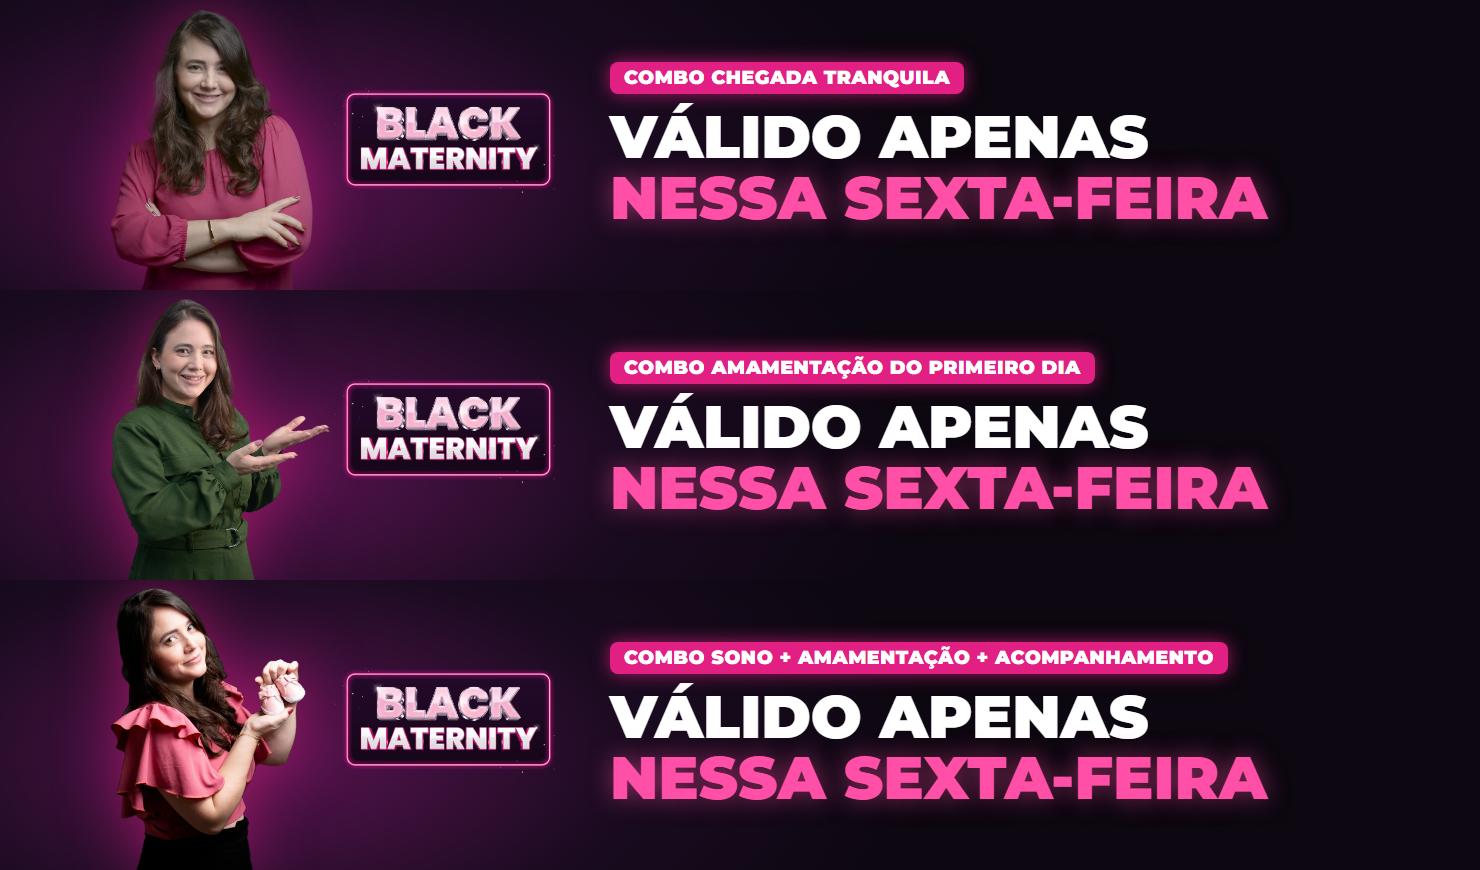
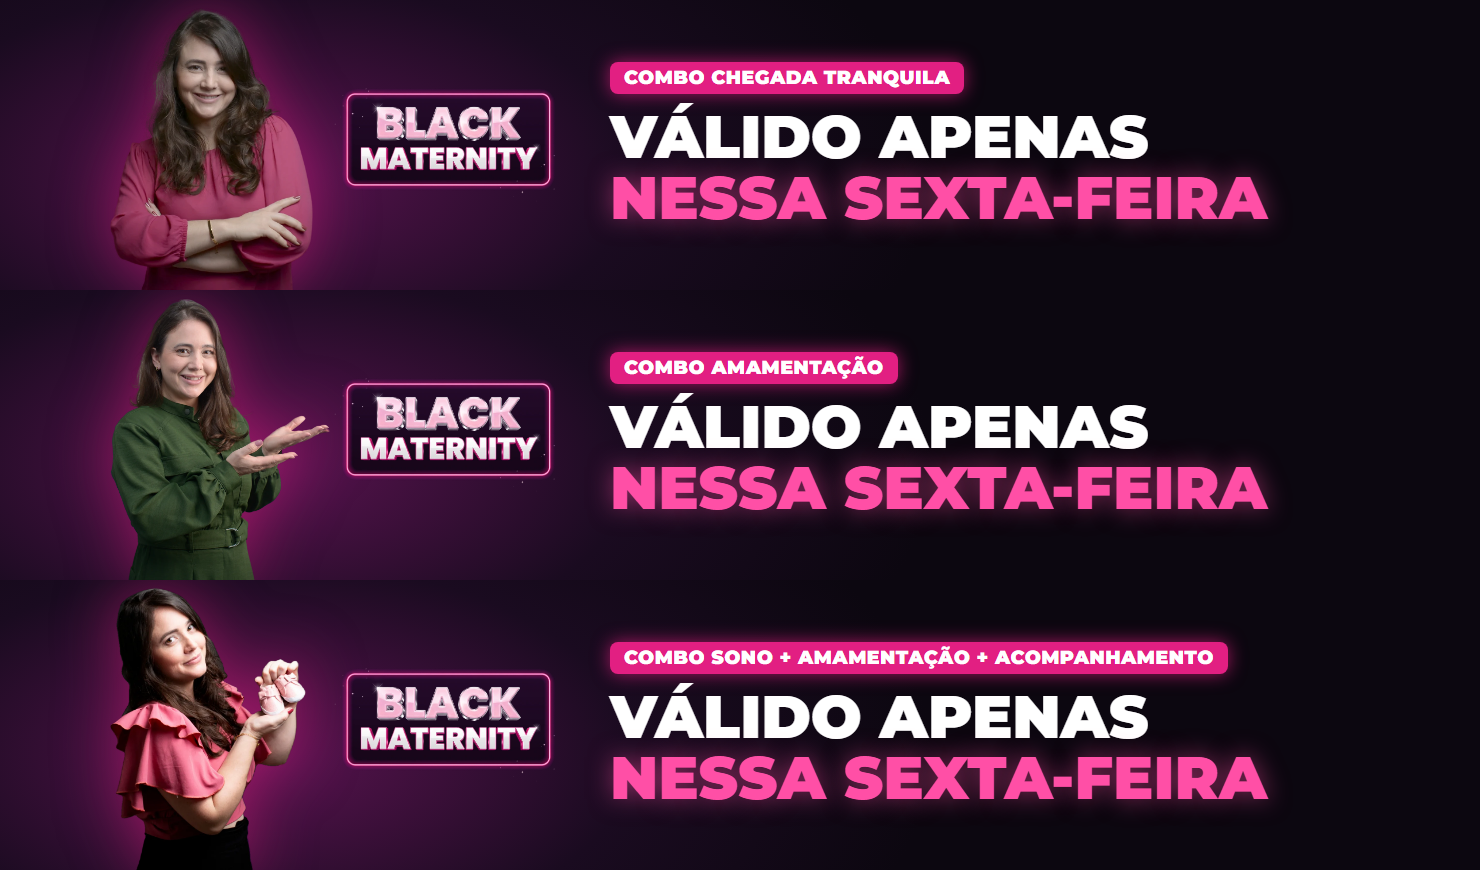
previa downsell: ajustes do Bruno (Amamentacao, textos)

Changed region(s): [[0.5905, 0.3724, 0.7459, 0.4655]]

diff --git a/2026-11-13-downsell-black/index.html b/2026-11-13-downsell-black/index.html
@@ -15,15 +15,15 @@ h1{font-size:1.7rem;color:#fff}h2{font-size:1.15rem;color:var(--rosa);margin:36p
 <h1>Downsell da Black Maternity</h1>
 <p class="sub">Sexta, 13/11 · grupo Black Maternity · links das 12h às 15h</p>
 <h2>As artes dos combos</h2>
-<div class="grid"><img src="img/combo-chegada.jpg" alt="Combo Chegada Tranquila"><img src="img/combo-amamentacao.jpg" alt="Combo Amamentação do Primeiro Dia"><img src="img/combo-sono-amamentacao.jpg" alt="Combo Sono + Amamentação"></div>
+<div class="grid"><img src="img/combo-chegada.jpg" alt="Combo Chegada Tranquila"><img src="img/combo-amamentacao.jpg" alt="Combo Amamentação"><img src="img/combo-sono-amamentacao.jpg" alt="Combo Sono + Amamentação"></div>
 <h2>Os links</h2>
 <div class="links">
 <div><b>Chegada Tranquila · R$ 97</b><a href="https://manualdorecemnascido.com.br/ChegadaTranquila" target="_blank">manualdorecemnascido.com.br/ChegadaTranquila</a></div>
-<div><b>Amamentação do Primeiro Dia · R$ 127</b><a href="https://manualdorecemnascido.com.br/AmamentacaoPrimeiroDia" target="_blank">manualdorecemnascido.com.br/AmamentacaoPrimeiroDia</a></div>
+<div><b>Amamentação · R$ 127</b><a href="https://manualdorecemnascido.com.br/ComboAmamentacao" target="_blank">manualdorecemnascido.com.br/ComboAmamentacao</a></div>
 <div><b>Sono + Amamentação + Acompanhamento · R$ 194</b><a href="https://manualdorecemnascido.com.br/ComboSonoAmamentacaoBlack" target="_blank">manualdorecemnascido.com.br/ComboSonoAmamentacaoBlack</a></div>
 </div>
 <h2>Como vai aparecer no grupo</h2>
-<div class="chat"><div class="hora">10:00 · marcando todas</div><div class="bolha"><div class="t">🚨 <b>NOVIDADE PRA VOCÊS, MAMÃES!</b> 🚨<br><br>Recebemos muitas mensagens de mães que queriam muito a Black Maternity, mas que agora não conseguiram 💛<br><br>Por isso, preparamos <b>uma nova oferta especial</b> só pra quem está aqui no grupo, com combos menores pra você se preparar pra chegada do bebê.<br><br>👉 <b>Os links ficam disponíveis HOJE, das 12h às 15h</b> (horário de Brasília).<br>👉 Às 15h a gente tira do ar, tá?<br><br>Fica de olho aqui no grupo ao meio-dia ❤</div></div><div class="hora">12:00 · marcando todas</div><div class="bolha"><div class="t">❤ <b>LINKS LIBERADOS</b> ❤<br><br>Os combos ficam disponíveis <b>até as 15h</b> (horário de Brasília). Depois desse horário a gente tira do ar 😅<br><br>Olha o que tem em cada um 👇</div></div><div class="bolha"><img src="img/combo-chegada.jpg" alt=""><div class="t">🤰 <b>COMBO CHEGADA TRANQUILA</b> 🤰<br><br>Se prepare, gestante: chegue no grande dia sabendo exatamente o que fazer.<br><br>👉 <b>Plano de Parto:</b> você monta o seu plano, normal ou cesárea, conhece os seus direitos e aprende a apresentar o plano pra equipe do hospital.<br><br>👉 <b>O Dia do Parto:</b> a mala da mãe, do bebê e do acompanhante, a chegada na maternidade, o parto normal, a cesárea e a golden hour, a primeira hora com o seu bebê.<br><br>👉 <b>Bebê Calminho:</b> cólica, refluxo, arroto, choro, banho e como deixar o bebê seguro nos primeiros dias em casa.<br><br>💰 <b>R$ 97 à vista ou 12x de R$ 9,97</b></div></div><div class="bolha"><div class="t">❤ <b>LINK DO COMBO CHEGADA TRANQUILA</b> 👇</div></div><div class="bolha"><div class="t"><a href="https://manualdorecemnascido.com.br/ChegadaTranquila" target="_blank">https://manualdorecemnascido.com.br/ChegadaTranquila</a></div></div><div class="bolha"><img src="img/combo-amamentacao.jpg" alt=""><div class="t">🤱 <b>COMBO AMAMENTAÇÃO DO PRIMEIRO DIA</b> 🤱<br><br>Se prepare, gestante: amamentar não precisa doer.<br><br>👉 <b>Guia da Pega:</b> aulas curtinhas com bebês de verdade mamando, mostrando a pega certa pra mamada não doer.<br><br>👉 <b>Técnica Pesque Baby:</b> o passo a passo pra tirar o bico de silicone com calma, se ele entrar na sua rotina.<br><br>👉 <b>Como Estocar Leite Materno:</b> como tirar, guardar, congelar e oferecer o leite com segurança.<br><br>👉 <b>E-book Alta Produção de Leite:</b> o que ajuda de verdade a produção de leite desde os primeiros dias.<br><br>💬 <b>E ainda 30 dias de acompanhamento no WhatsApp</b> com a consultora da equipe da Day. Os 30 dias só começam quando você chamar, então pode deixar pra quando o bebê chegar 🥰<br><br>💰 <b>R$ 127 à vista ou 12x de R$ 13,06</b></div></div><div class="bolha"><div class="t">❤ <b>LINK DO COMBO AMAMENTAÇÃO DO PRIMEIRO DIA</b> 👇</div></div><div class="bolha"><div class="t"><a href="https://manualdorecemnascido.com.br/AmamentacaoPrimeiroDia" target="_blank">https://manualdorecemnascido.com.br/AmamentacaoPrimeiroDia</a></div></div><div class="bolha"><img src="img/combo-sono-amamentacao.jpg" alt=""><div class="t">🌙 <b>COMBO SONO + AMAMENTAÇÃO + ACOMPANHAMENTO</b> 🌙<br><br>Se prepare, gestante: sono e amamentação resolvidos antes do bebê chegar. É o mais completo!<br><br>👉 <b>Dream Baby Pocket:</b> um quiz rápido descobre o perfil de sono do seu bebê e entrega o plano pro berço, as sonecas e a noite. Sem deixar chorar.<br><br>👉 <b>Guia da Pega:</b> a pega certa pra amamentar sem dor.<br><br>👉 <b>Como Estocar Leite Materno</b>, <b>Mini Curso Cólica, Disquesia e Bem-Estar</b> e <b>Mini Curso Rotina do Bebê</b><br><br>👉 <b>4 e-books:</b> Alta Produção de Leite, Rotina do Bebê, Como Estimular o Desenvolvimento e Saltos de Desenvolvimento.<br><br>💬 <b>30 dias de acompanhamento no WhatsApp</b> com a consultora da equipe da Day, que só começam quando você chamar.<br><br>💰 <b>R$ 194 à vista ou 12x de R$ 19,95</b></div></div><div class="bolha"><div class="t">❤ <b>LINK DO COMBO SONO + AMAMENTAÇÃO + ACOMPANHAMENTO</b> 👇</div></div><div class="bolha"><div class="t"><a href="https://manualdorecemnascido.com.br/ComboSonoAmamentacaoBlack" target="_blank">https://manualdorecemnascido.com.br/ComboSonoAmamentacaoBlack</a></div></div><div class="hora">12:45</div><div class="bolha"><div class="t">💛 <b>NA DÚVIDA DE QUAL COMBO ESCOLHER?</b> 💛<br><br>👉 Quer chegar segura no parto e nos primeiros dias em casa? <b>Chegada Tranquila</b><br><br>👉 Quer amamentar sem dor, com a consultora do seu lado quando o bebê chegar? <b>Amamentação do Primeiro Dia</b><br><br>👉 Quer cuidar do sono e da amamentação, com acompanhamento? <b>Sono + Amamentação + Acompanhamento</b>, o mais completo<br><br>Ainda com dúvida? Me chama no privado que eu te ajudo a escolher 🥰</div></div><div class="hora">13:30</div><div class="bolha"><div class="t">❤ <b>LEMBRANDO: OS COMBOS FICAM NO AR ATÉ AS 15H</b> ❤<br><br>👉 <b>Chegada Tranquila</b> (R$ 97): <a href="https://manualdorecemnascido.com.br/ChegadaTranquila" target="_blank">https://manualdorecemnascido.com.br/ChegadaTranquila</a><br><br>👉 <b>Amamentação do Primeiro Dia</b> (R$ 127): <a href="https://manualdorecemnascido.com.br/AmamentacaoPrimeiroDia" target="_blank">https://manualdorecemnascido.com.br/AmamentacaoPrimeiroDia</a><br><br>👉 <b>Sono + Amamentação + Acompanhamento</b> (R$ 194): <a href="https://manualdorecemnascido.com.br/ComboSonoAmamentacaoBlack" target="_blank">https://manualdorecemnascido.com.br/ComboSonoAmamentacaoBlack</a></div></div><div class="hora">14:00</div><div class="bolha"><div class="t">⏰ <b>FALTA 1 HORA!</b> ⏰<br><br>Às 15h os links saem do ar. Se você quer garantir o seu combo, é agora 👇<br><br>👉 <b>Chegada Tranquila</b> (R$ 97): <a href="https://manualdorecemnascido.com.br/ChegadaTranquila" target="_blank">https://manualdorecemnascido.com.br/ChegadaTranquila</a><br><br>👉 <b>Amamentação do Primeiro Dia</b> (R$ 127): <a href="https://manualdorecemnascido.com.br/AmamentacaoPrimeiroDia" target="_blank">https://manualdorecemnascido.com.br/AmamentacaoPrimeiroDia</a><br><br>👉 <b>Sono + Amamentação + Acompanhamento</b> (R$ 194): <a href="https://manualdorecemnascido.com.br/ComboSonoAmamentacaoBlack" target="_blank">https://manualdorecemnascido.com.br/ComboSonoAmamentacaoBlack</a></div></div><div class="hora">14:30</div><div class="bolha"><div class="t">⏰ <b>FALTAM 30 MINUTOS!</b> ⏰<br><br>Os combos saem do ar às 15h 👇<br><br>👉 <b>Chegada Tranquila</b> (R$ 97): <a href="https://manualdorecemnascido.com.br/ChegadaTranquila" target="_blank">https://manualdorecemnascido.com.br/ChegadaTranquila</a><br><br>👉 <b>Amamentação do Primeiro Dia</b> (R$ 127): <a href="https://manualdorecemnascido.com.br/AmamentacaoPrimeiroDia" target="_blank">https://manualdorecemnascido.com.br/AmamentacaoPrimeiroDia</a><br><br>👉 <b>Sono + Amamentação + Acompanhamento</b> (R$ 194): <a href="https://manualdorecemnascido.com.br/ComboSonoAmamentacaoBlack" target="_blank">https://manualdorecemnascido.com.br/ComboSonoAmamentacaoBlack</a></div></div><div class="hora">14:45 · marcando todas</div><div class="bolha"><div class="t">🚨 <b>ÚLTIMOS 15 MINUTOS!</b> 🚨<br><br>Às 15h em ponto os links saem do ar. Última chance 👇<br><br>👉 <b>Chegada Tranquila</b> (R$ 97): <a href="https://manualdorecemnascido.com.br/ChegadaTranquila" target="_blank">https://manualdorecemnascido.com.br/ChegadaTranquila</a><br><br>👉 <b>Amamentação do Primeiro Dia</b> (R$ 127): <a href="https://manualdorecemnascido.com.br/AmamentacaoPrimeiroDia" target="_blank">https://manualdorecemnascido.com.br/AmamentacaoPrimeiroDia</a><br><br>👉 <b>Sono + Amamentação + Acompanhamento</b> (R$ 194): <a href="https://manualdorecemnascido.com.br/ComboSonoAmamentacaoBlack" target="_blank">https://manualdorecemnascido.com.br/ComboSonoAmamentacaoBlack</a></div></div><div class="hora">15:00</div><div class="bolha"><div class="t">❤ <b>LINKS ENCERRADOS</b> ❤<br><br>Muito obrigada a todas que aproveitaram! Quem garantiu, seja muito bem-vinda: os dados de acesso chegam no seu e-mail e a nossa equipe te chama no WhatsApp 🥰<br><br>Continue acompanhando a Day no @manualdorecemnascido no Instagram, TikTok e YouTube ❤</div></div></div>
+<div class="chat"><div class="hora">10:00 · marcando todas</div><div class="bolha"><div class="t">🚨 <b>NOVIDADE PRA VOCÊS, MAMÃES!</b> 🚨<br><br>Recebemos muitas mensagens de mães que queriam muito a Black Maternity, mas que agora não conseguiriam e nos pediram uma opção mais em conta 💛<br><br>Por isso, preparamos <b>uma nova oferta especial</b> só pra quem está aqui no grupo, com combos menores pra você se preparar pra chegada do bebê.<br><br>👉 <b>Os links ficam disponíveis HOJE, das 12h às 15h</b> (horário de Brasília).<br>👉 Às 15h a gente tira do ar, tá?<br><br>Fica de olho aqui no grupo ao meio-dia ❤</div></div><div class="hora">12:00 · marcando todas</div><div class="bolha"><div class="t">❤ <b>LINKS LIBERADOS</b> ❤<br><br>Os combos ficam disponíveis <b>até as 15h</b> (horário de Brasília).<br><br>Olha o que tem em cada um 👇</div></div><div class="bolha"><img src="img/combo-chegada.jpg" alt=""><div class="t">🤰 <b>COMBO CHEGADA TRANQUILA</b> 🤰<br><br>Se prepare, gestante: chegue no grande dia sabendo exatamente o que fazer.<br><br>👉 <b>Plano de Parto:</b> você monta o seu plano, normal ou cesárea, conhece os seus direitos e aprende a apresentar o plano pra equipe do hospital.<br><br>👉 <b>O Dia do Parto:</b> a mala da mãe, do bebê e do acompanhante, a chegada na maternidade, o parto normal, a cesárea e a golden hour, a primeira hora com o seu bebê.<br><br>👉 <b>Bebê Calminho:</b> cólica, refluxo, arroto, choro, banho e tudo sobre os primeiros cuidados do recém-nascido em casa.<br><br>💰 <b>R$ 97 à vista ou 12x de R$ 9,97</b></div></div><div class="bolha"><div class="t">❤ <b>LINK DO COMBO CHEGADA TRANQUILA</b> 👇</div></div><div class="bolha"><div class="t"><a href="https://manualdorecemnascido.com.br/ChegadaTranquila" target="_blank">https://manualdorecemnascido.com.br/ChegadaTranquila</a></div></div><div class="bolha"><img src="img/combo-amamentacao.jpg" alt=""><div class="t">🤱 <b>COMBO AMAMENTAÇÃO</b> 🤱<br><br>Se prepare para uma amamentação leve e tranquila, para que seu bebê mame de forma efetiva e você não sinta dor.<br><br>👉 <b>Guia da Pega:</b> aulas curtas e diretas ao ponto com bebês de verdade, mostrando como fazer a pega e como facilitar a pega para a mãe e para o bebê.<br><br>👉 <b>Técnica Pesque Baby:</b> passo a passo para fazer o bebê identificar o seio como fonte de alimento. Para casos em que o bebê precisa usar bico de silicone ou não aceita pegar o seio.<br><br>👉 <b>Como Estocar Leite Materno:</b> como tirar, guardar, congelar e oferecer o leite com segurança.<br><br>👉 <b>E-book Alta Produção de Leite:</b> o que ajuda de verdade a produção de leite desde os primeiros dias.<br><br>💬 <b>E ainda 30 dias de acompanhamento no WhatsApp</b> com a consultora da equipe da Day. Os 30 dias só começam quando você chamar, então pode deixar pra quando o bebê chegar 🥰<br><br>💰 <b>R$ 127 à vista ou 12x de R$ 13,06</b></div></div><div class="bolha"><div class="t">❤ <b>LINK DO COMBO AMAMENTAÇÃO</b> 👇</div></div><div class="bolha"><div class="t"><a href="https://manualdorecemnascido.com.br/ComboAmamentacao" target="_blank">https://manualdorecemnascido.com.br/ComboAmamentacao</a></div></div><div class="bolha"><img src="img/combo-sono-amamentacao.jpg" alt=""><div class="t">🌙 <b>COMBO SONO + AMAMENTAÇÃO + ACOMPANHAMENTO</b> 🌙<br><br>Se prepare para uma amamentação tranquila e para um sono de qualidade do seu bebê.<br><br>👉 <b>Dream Baby Pocket:</b> saiba como fazer todo o passo a passo para adaptar o seu bebê ao berço, de forma tranquila e sem choro.<br><br>👉 <b>Guia da Pega:</b> o passo a passo para facilitar a pega para a mãe e o bebê. Veja seu bebê mamando de forma tranquila e efetiva, sem te machucar.<br><br>👉 <b>E mais:</b> Como Estocar Leite Materno, Mini Curso Cólica, Disquesia e Bem-Estar e Mini Curso Rotina do Bebê.<br><br>👉 <b>4 e-books:</b> Alta Produção de Leite, Rotina do Bebê, Como Estimular o Desenvolvimento e Saltos de Desenvolvimento.<br><br>💬 <b>30 dias de acompanhamento no WhatsApp</b> com a consultora da equipe da Day, que só começam quando você chamar.<br><br>💰 <b>R$ 194 à vista ou 12x de R$ 19,95</b></div></div><div class="bolha"><div class="t">❤ <b>LINK DO COMBO SONO + AMAMENTAÇÃO + ACOMPANHAMENTO</b> 👇</div></div><div class="bolha"><div class="t"><a href="https://manualdorecemnascido.com.br/ComboSonoAmamentacaoBlack" target="_blank">https://manualdorecemnascido.com.br/ComboSonoAmamentacaoBlack</a></div></div><div class="hora">12:45</div><div class="bolha"><div class="t">💛 <b>NA DÚVIDA DE QUAL COMBO ESCOLHER?</b> 💛<br><br>👉 Quer chegar segura no parto e estar preparada para os primeiros cuidados do recém-nascido em casa? <b>Chegada Tranquila</b><br><br>👉 Quer amamentar sem dor, com a consultora no seu WhatsApp para tirar dúvidas e te orientar de acordo com o seu caso? <b>Amamentação</b><br><br>👉 Quer se preparar para o sono e a amamentação do seu bebê, com acompanhamento no WhatsApp para tirar todas as suas dúvidas? <b>Sono + Amamentação + Acompanhamento</b><br><br>Ainda com dúvida? Me chama no privado que eu te ajudo a escolher 🥰</div></div><div class="hora">13:30</div><div class="bolha"><div class="t">❤ <b>LEMBRANDO: OS COMBOS FICAM NO AR ATÉ AS 15H</b> ❤<br><br>👉 <b>Chegada Tranquila</b> (R$ 97): <a href="https://manualdorecemnascido.com.br/ChegadaTranquila" target="_blank">https://manualdorecemnascido.com.br/ChegadaTranquila</a><br><br>👉 <b>Amamentação</b> (R$ 127): <a href="https://manualdorecemnascido.com.br/ComboAmamentacao" target="_blank">https://manualdorecemnascido.com.br/ComboAmamentacao</a><br><br>👉 <b>Sono + Amamentação + Acompanhamento</b> (R$ 194): <a href="https://manualdorecemnascido.com.br/ComboSonoAmamentacaoBlack" target="_blank">https://manualdorecemnascido.com.br/ComboSonoAmamentacaoBlack</a></div></div><div class="hora">14:00</div><div class="bolha"><div class="t">⏰ <b>FALTA 1 HORA!</b> ⏰<br><br>Às 15h os links saem do ar. Se você quer garantir o seu combo, é agora 👇<br><br>👉 <b>Chegada Tranquila</b> (R$ 97): <a href="https://manualdorecemnascido.com.br/ChegadaTranquila" target="_blank">https://manualdorecemnascido.com.br/ChegadaTranquila</a><br><br>👉 <b>Amamentação</b> (R$ 127): <a href="https://manualdorecemnascido.com.br/ComboAmamentacao" target="_blank">https://manualdorecemnascido.com.br/ComboAmamentacao</a><br><br>👉 <b>Sono + Amamentação + Acompanhamento</b> (R$ 194): <a href="https://manualdorecemnascido.com.br/ComboSonoAmamentacaoBlack" target="_blank">https://manualdorecemnascido.com.br/ComboSonoAmamentacaoBlack</a></div></div><div class="hora">14:30</div><div class="bolha"><div class="t">⏰ <b>FALTAM 30 MINUTOS!</b> ⏰<br><br>Os combos saem do ar às 15h 👇<br><br>👉 <b>Chegada Tranquila</b> (R$ 97): <a href="https://manualdorecemnascido.com.br/ChegadaTranquila" target="_blank">https://manualdorecemnascido.com.br/ChegadaTranquila</a><br><br>👉 <b>Amamentação</b> (R$ 127): <a href="https://manualdorecemnascido.com.br/ComboAmamentacao" target="_blank">https://manualdorecemnascido.com.br/ComboAmamentacao</a><br><br>👉 <b>Sono + Amamentação + Acompanhamento</b> (R$ 194): <a href="https://manualdorecemnascido.com.br/ComboSonoAmamentacaoBlack" target="_blank">https://manualdorecemnascido.com.br/ComboSonoAmamentacaoBlack</a></div></div><div class="hora">14:45 · marcando todas</div><div class="bolha"><div class="t">🚨 <b>ÚLTIMOS 15 MINUTOS!</b> 🚨<br><br>Às 15h em ponto os links saem do ar. Última chance 👇<br><br>👉 <b>Chegada Tranquila</b> (R$ 97): <a href="https://manualdorecemnascido.com.br/ChegadaTranquila" target="_blank">https://manualdorecemnascido.com.br/ChegadaTranquila</a><br><br>👉 <b>Amamentação</b> (R$ 127): <a href="https://manualdorecemnascido.com.br/ComboAmamentacao" target="_blank">https://manualdorecemnascido.com.br/ComboAmamentacao</a><br><br>👉 <b>Sono + Amamentação + Acompanhamento</b> (R$ 194): <a href="https://manualdorecemnascido.com.br/ComboSonoAmamentacaoBlack" target="_blank">https://manualdorecemnascido.com.br/ComboSonoAmamentacaoBlack</a></div></div><div class="hora">15:00</div><div class="bolha"><div class="t">❤ <b>LINKS ENCERRADOS</b> ❤<br><br>Muito obrigada a todas que aproveitaram! Quem garantiu, seja muito bem-vinda: os dados de acesso chegam no seu e-mail e a nossa equipe te chama no WhatsApp 🥰<br><br>Continue acompanhando a Day no @manualdorecemnascido no Instagram, TikTok e YouTube ❤</div></div></div>
 <h2>Topo dos checkouts</h2><img class="full" src="img/checkouts.png" alt="">
 <h2>Imagem dos produtos na Greenn</h2><img class="full" src="img/thumbs.png" alt="">
 </main></body></html>
